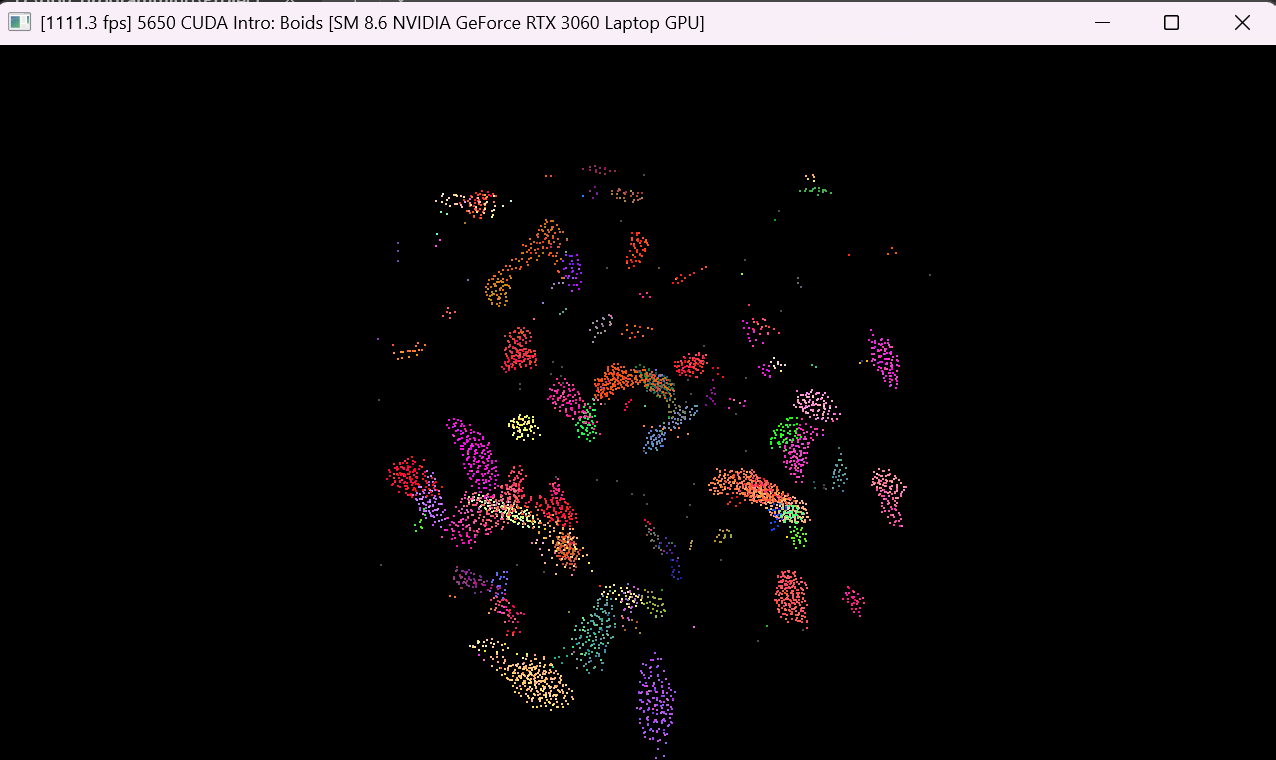
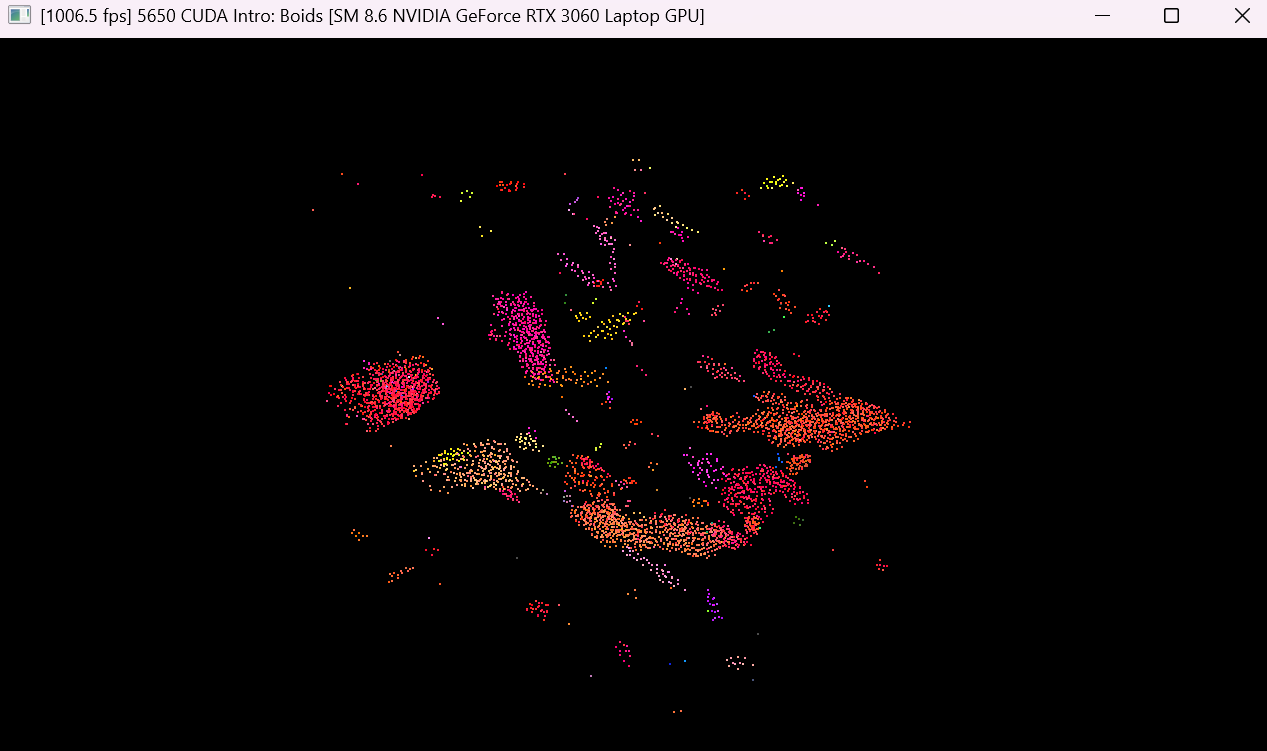
correcting gifs

diff --git a/src/main.cpp b/src/main.cpp
@@ -24,7 +24,7 @@
 // LOOK-2.1 LOOK-2.3 - toggles for UNIFORM_GRID and COHERENT_GRID
 #define VISUALIZE 1
 #define UNIFORM_GRID 1
-#define COHERENT_GRID 1
+#define COHERENT_GRID 0
 
 // LOOK-1.2 - change this to adjust particle count in the simulation
 const int N_FOR_VIS = 5000;
